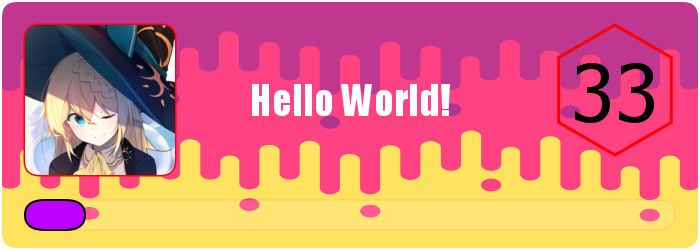
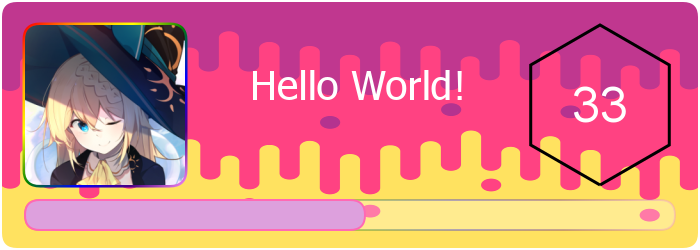
update show code

diff --git a/src/test/main.ts b/src/test/main.ts
@@ -6,82 +6,40 @@ import { NessBuilder } from "..";
 // const path = require('path');
 
 async function test() {
-  // const canvas = new Canvas(400, 400);
-  // const context = canvas.getContext('2d')
 
-  const builder = new NessBuilder(400, 400)
+const background = await loadImage('https://media.discordapp.net/attachments/1006600590408818810/1006600665298116728/background-3147808.jpg');
+const avatar = await loadImage('https://media.discordapp.net/attachments/758031322244710601/1000153437813616650/perso_anime_U565bW7EhY2InkF.png');
+const builder = new NessBuilder(700, 250);
 
-  const gradient = builder.context.createLinearGradient(0, 0, 200, 0);
-  gradient.addColorStop(0, "green");
-  gradient.addColorStop(0.7, "white");
-  gradient.addColorStop(1, "pink");
+const gradient = builder.context.createLinearGradient(25, 25, 185 , 185  );
 
-  // const canvas = new Canvas(400, 400);
-    
-  // const ctx = canvas.getContext('2d');
-
-  // // Coordonnées du centre du cercle et rayon
-  // const centerX = 200;
-  // const centerY = 200
-  // const angle = Math.PI/5;
-
-  // ctx.strokeStyle = "white"
-  // ctx.lineWidth = 3;
-
-  // ctx.moveTo(centerX, centerY);
-  // ctx.lineTo(200 + (100/2) * Math.cos(angle * 4) , 200);
-  // ctx.stroke()
-
-  // writeFileSync("./test.png", ctx.canvas.toBuffer());
+gradient.addColorStop(0, 'red');
+gradient.addColorStop(1/6, 'orange');
+gradient.addColorStop(2/6, 'yellow');
+gradient.addColorStop(3/6, 'green');
+gradient.addColorStop(4/6, 'blue');
+gradient.addColorStop(5/6, 'indigo');
+gradient.addColorStop(1, 'violet');
 
 
+const gradient2 = builder.context.createLinearGradient(25, 200, 660 , 130);
 
+gradient2.addColorStop(0, 'red');
+gradient2.addColorStop(1/6, 'orange');
+gradient2.addColorStop(2/6, 'yellow');
+gradient2.addColorStop(3/6, 'green');
+gradient2.addColorStop(4/6, 'blue');
+gradient2.addColorStop(5/6, 'indigo');
+gradient2.addColorStop(1, 'violet');
 
-
-  // const avatar = await loadImage('https://media.discordapp.net/attachments/758031322244710601/1000153437813616650/perso_anime_U565bW7EhY2InkF.png');
-  // const canvas = new Canvas(400, 400);
-
-  // const centerX = 200;
-  // const centerY = 200;
-  // const radius = 100;
-  // const builder = new NessBuilder(400, 400)
-  builder
-  // // .setLoading("Circle", { x: 200, y:200, size: 100, outline: { color: "#00FF00", width: 15 }, progress: 50, color: "#8b4513"})
-  // .setAxis("TopLeft")
-  // .setFrame("Rectangle", { x: 200, y: 200, size: 50 }, { type: "Text", color: "Brown", content: "TL", textOptions: { size: 50 } })
-  // .setAxis("TopRight")
-  // .setFrame("Rectangle", { x: 200, y: 200, size: 50 }, { type: "Text", color: "Brown", content: "TR", textOptions: { size: 50 } })
-  // .setAxis("TopCenter")
-  // .setFrame("Rectangle", { x: 200, y: 200, size: 50 }, { type: "Text", color: "Brown", content: "T", textOptions: { size: 50 } })
-  // .setAxis("BottomLeft")
-  // .setFrame("Rectangle", { x: 200, y: 200, size: 50 }, { type: "Text", color: "Brown", content: "BL", textOptions: { size: 50 } })
-  // .setAxis("BottomRight")
-  // .setFrame("Rectangle", { x: 200, y: 200, size: 50 }, { type: "Text", color: "Brown", content: "BR", textOptions: { size: 50 } })
-  // .setAxis("BottomCenter")
-  // .setFrame("Rectangle", { x: 200, y: 200, size: 50 }, { type: "Text", color: "Brown", content: "B", textOptions: { size: 50 } })
-  // .setAxis("Left")
-  // .setFrame("Rectangle", { x: 200, y: 200, size: 50 }, { type: "Text", color: "Brown", content: "L", textOptions: { size: 50 } })
-  // .setAxis("Right")
-  // .setFrame("Rectangle", { x: 200, y: 200, size: 50 }, { type: "Text", color: "Brown", content: "R", textOptions: { size: 50 } })
-  
-  .setAxis("Center")
-  .setLoading("Rectangle", { x: 200, y: 200, size: 50, fill: { type: "Line", start: "UpLeftToDownRight" }, rotate: 45, color: /*"rgb(255,0,0)"*/ gradient, progress: 50, outline: { color: "White", width: 3}, QuadrilateralOption: { height: 100, width: 150, radius: 20} })
-  // .setFrame("Rectangle", { x: 200, y: 200, size: 100, QuadrilateralOption: { radius: 50, height: 100, width: 150 }}, { type: "Color", content: "Coral", color: "Lime" })
-//   .setFrame("Heptagon", { x: 200, y: 200, size: 100 }, { type: "Text", color: "Green", content: "O", textOptions: { size: 50 } })
-// .setAxis(Axis.Center)
-
-  // const builder = new NessBuilder(250, 110);
-  // const gradient = builder.context.createLinearGradient(55, 5, 105, 55);
-  // gradient.addColorStop(0, "magenta");
-  // gradient.addColorStop(0.5, "yellow");
-  // gradient.addColorStop(1.0, "red");
-
-  // builder.setFrame("Octagon", { x: 5, y: 5, size: 50 }, { type: "Color", color: "Aquamarine", content: "Coral" })
-  // .setFrame("Square", { x: 65, y: 5, size: 50, QuadrilateralOprion: { radius: 15 } }, { type: "Empty", color: gradient, content: "Empty" })
-  // .setFrame("Circle", { x: 125, y: 5, size: 50 }, { type: "Text", color: "#A52A2A", content: "HI", textOptions: { size: 20, color: "rgb(0,230,100)" }})
-  // .setFrame("Nonagon", { x: 185, y: 5, size: 50 }, { type: "Text", color: "Blue", content: "YO", textOptions: { size: 20, color: "rgba(255,230,255,1)", backgroundColor: "HotPink" }})
-  // .setFrame("Triangle", { x: 5, y: 55, size: 50 }, { type: "Image", color: "rgb(0,230,100)", content: avatar })
-  .generatedTo(".", "test", "png")
+  builder.setCornerRadius(15)
+  .setBackground(background)
+  .setAxis("BottomRight")
+  .setFrame("Square", { x: 25, y: 25, size: 80 }, { type: "Image", content: avatar, color: gradient, lineWidth: 5 })
+  .setFrame("Hexagon", { x: 520, y: 25, size: 80, rotate: 90 }, { type: "Text", content: "33", color: "Black", textOptions: { size: 50 } })
+  .setExp({ x: 40, y: 200, width: 620, height: 30, radius: 15 }, 50, { outlineColor1: gradient2, outlineColor2: "HotPink", color2: "Plum" })
+  .setText('Hello World!', {x:250, y:100}, {size: 40, font: '*Impact'})
+  .generatedTo('.', "test", "png");
 
 }
 

diff --git a/README.md b/README.md
@@ -33,15 +33,24 @@ const { loadImage } = require('canvas')
 
 const background = await loadImage('https://media.discordapp.net/attachments/1006600590408818810/1006600665298116728/background-3147808.jpg');
 const avatar = await loadImage('https://media.discordapp.net/attachments/758031322244710601/1000153437813616650/perso_anime_U565bW7EhY2InkF.png');
+const builder = new NessBuilder(700, 250);
 
-const builder = new NessBuilder(700, 250)
-  .setCornerRadius(15)
+const gradient = builder.context.createLinearGradient(25, 25, 185 , 185  );
+const gradient2 = builder.context.createLinearGradient(25, 200, 660 , 130);
+
+gradient.addColorStop(0, 'red');
+...
+gradient2.addColorStop(0, 'red');
+...
+
+builder.setCornerRadius(15)
   .setBackground(background)
-  .setAxis("TopLeft")
-  .setFrame("Circle", { x: 25, y: 25, size: 80 }, { type: "Color", content: "Coral", color: "Blue" } )
-  .setExp({ x: 45, y: 45, width: 655, height: 30, radius: 10 }, 50)
-  .setText('Hello World!', {x:350, y:100}, {size: 40, font: 'Impact'})
-  .generatedTo('src/test/', "test", "png");
+  .setAxis("BottomRight")
+  .setFrame("Square", { x: 25, y: 25, size: 80 }, { type: "Image", content: avatar, color: gradient, lineWidth: 5 })
+  .setFrame("Hexagon", { x: 520, y: 25, size: 80, rotate: 90 }, { type: "Text", content: "33", color: "Black", textOptions: { size: 50 } })
+  .setExp({ x: 40, y: 200, width: 620, height: 30, radius: 15 }, 50, { outlineColor1: gradient2, outlineColor2: "HotPink", color2: "Plum" })
+  .setText('Hello World!', {x:250, y:100}, {size: 40, font: '*Impact'})
+  .generatedTo('.', "test", "png");
 
 // Generate canvas in a specific file
 builder.generateTo('FileLocation', 'ImageName', "PNG | JPEG | JPG")
@@ -79,7 +88,8 @@ This project is an implementation of the Canvas module. For more on the latter v
 The filter builder has documentation specifying all filters you find <a href="https://github.com/DARK-ECNELIS/Ness-Canvas/blob/main/FilterGuide.md" style="color: #00FFFF">here</a>.
 
 
-> ⚠ You can find an example of using the Gif Builder <a href="https://github.com/DARK-ECNELIS/Ness-Canvas/blob/main/GifGuide.md" style="color: #00FFFF">here</a>
+> ⚠ Gif Builder has been move in a external package you can find <a href="https://www.npmjs.com/package/gif-ness-canvas" style="color: #00FFFF">here</a><br>
+> ⚠ You can also find an example of using the Gif Builder <a href="https://github.com/DARK-ECNELIS/Ness-Canvas/blob/main/GifGuide.md" style="color: #00FFFF">here</a>
 
 
 <div style="display:flex; text-align:center; justify-content:space-evenly">
@@ -88,8 +98,6 @@ The filter builder has documentation specifying all filters you find <a href="ht
     <img style="display:block" src="https://github.com/DARK-ECNELIS/Ness-Canvas/blob/main/Assets/test.gif?raw=true" height=80/>
   </div>
 </div>
-
-> ⚠ Gif Builder has been move in a external package you can find <a href="https://www.npmjs.com/package/gif-ness-canvas" style="color: #00FFFF">here</a>
 
 ## Builder
 
